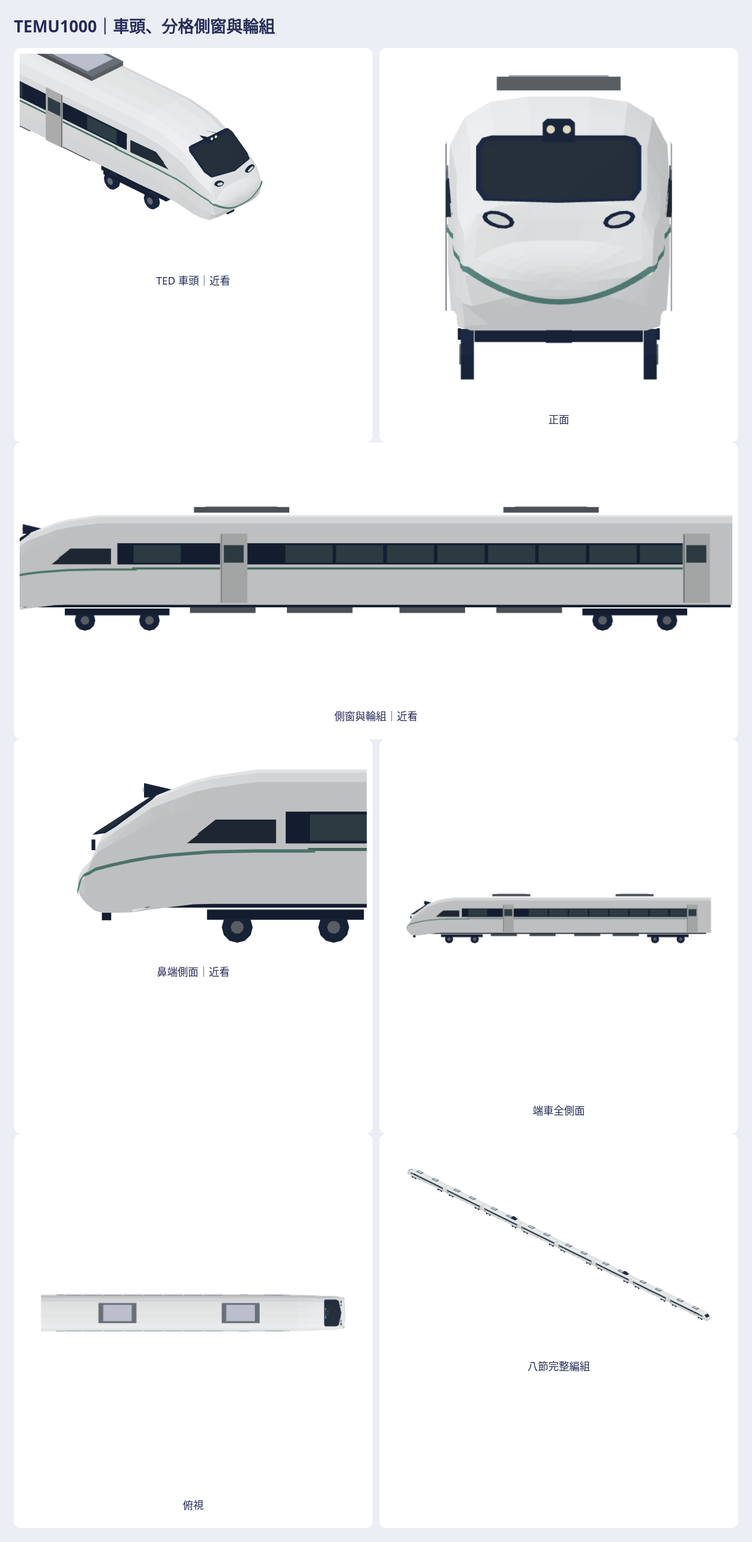
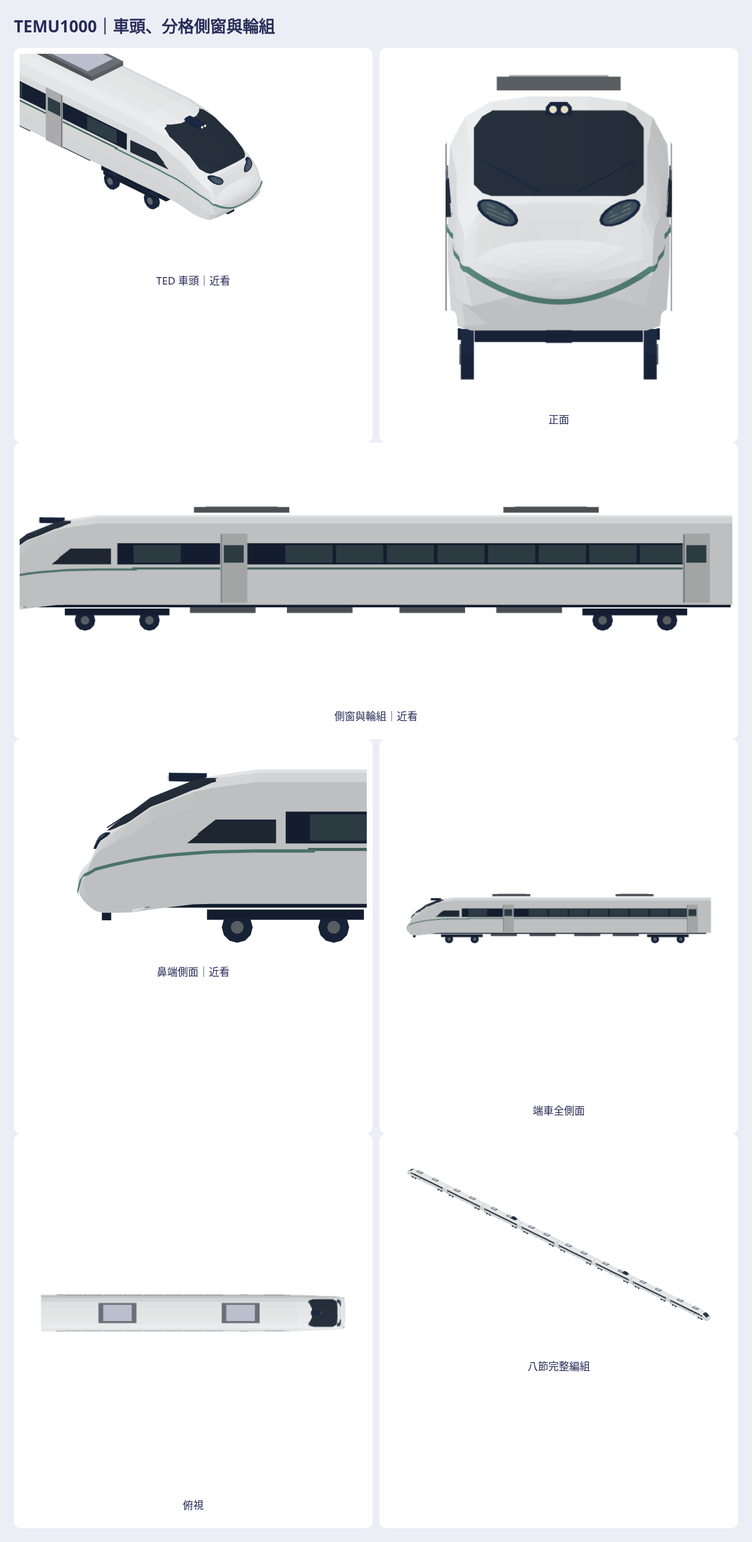
Polish TEMU1000 cab glazing and lamps from front references
Agent: Codex

diff --git a/Sources/GamePresentation/Map3DTEMU1000.swift b/Sources/GamePresentation/Map3DTEMU1000.swift
@@ -312,43 +312,124 @@ extension StationKitBuilder {
                 let cabPane = cab.map { Map3DPoint($0.x,$0.y-0.025,$0.z+side*0.012) }
                 face(cabPane,inside:centre,color:glass)
             }
-            // The cab screen follows the rake and bends across the width.
-            // Chamfered corners and a short closed rim keep the glazing part
-            // of the nose instead of a flat panel hovering over the shell.
-            func screenPoint(_ y: Float, _ z: Float, offset: Float = 0) -> Map3DPoint {
-                let t = (3.20-y)/0.93
-                let transverse = 0.24 * max(0,1-(z/1.15)*(z/1.15))
-                return Map3DPoint(nose*(10.94+1.25*t+transverse+offset),y,z)
+            // Project the screen and lamps onto the actual shell facets.
+            // Their former flat X planes made them hover over the cab rake.
+            func cabSurface(_ y: Float, _ z: Float) -> Float {
+                var forward = -Float.infinity
+                func consider(_ a: Map3DPoint, _ b: Map3DPoint, _ c: Map3DPoint) {
+                    let by=b.y-a.y,bz=b.z-a.z,cy=c.y-a.y,cz=c.z-a.z
+                    let det=by*cz-bz*cy
+                    if abs(det)<0.00001 { return }
+                    let py=y-a.y,pz=z-a.z
+                    let u=(py*cz-pz*cy)/det,v=(by*pz-bz*py)/det
+                    if u >= -0.0001 && v >= -0.0001 && u+v <= 1.0001 {
+                        forward=max(forward,nose*(a.x*(1-u-v)+b.x*u+c.x*v))
+                    }
+                }
+                for k in 0..<(rings.count-1) {
+                    for i in section.indices {
+                        let j=(i+1)%section.count
+                        if i < 7 {
+                            consider(rings[k][i],rings[k][j],rings[k+1][i])
+                            consider(rings[k][j],rings[k+1][j],rings[k+1][i])
+                        } else {
+                            consider(rings[k][i],rings[k][j],rings[k+1][j])
+                            consider(rings[k][i],rings[k+1][j],rings[k+1][i])
+                        }
+                    }
+                }
+                precondition(forward.isFinite,"TEMU1000 cab fitting missed the shell at \(y), \(z)")
+                return forward
             }
-            let outline: [(Float,Float)] = [(3.16,-1.00),(3.19,-0.88),(3.19,0.88),
-                                            (3.16,1.00),(3.05,1.08),(2.48,1.08),
-                                            (2.34,0.98),(2.31,0),(2.34,-0.98),
-                                            (2.48,-1.08),(3.05,-1.08)]
-            let frame = outline.map { screenPoint($0.0,$0.1,offset:0.025) }
-            let backing = outline.map { screenPoint($0.0,$0.1,offset:-0.035) }
-            face(frame,inside:centre,color:ink)
-            face(backing,inside:centre,color:ink)
-            for i in outline.indices {
-                let j = (i+1)%outline.count
-                face([frame[i],frame[j],backing[j],backing[i]],inside:centre,color:ink)
+            func cabPoint(_ y: Float, _ z: Float, offset: Float = 0) -> Map3DPoint {
+                Map3DPoint(nose*(cabSurface(y,z)+offset),y,z)
             }
-            let pane = outline.map { y,z in screenPoint(2.74+(y-2.74)*0.91,z*0.94,offset:0.030) }
-            face(pane,inside:centre,color:glass)
-            // The twin upper marker lamps share one roof-backed, closed pod.
-            // Its rear edge intersects the solid roof, while its lower front
-            // edge overlaps the screen rim rather than hovering above it.
-            let lampRear = [Map3DPoint(nose*10.70,3.12,-0.21),
-                            Map3DPoint(nose*10.70,3.23,-0.21),
-                            Map3DPoint(nose*10.70,3.27,-0.15),
-                            Map3DPoint(nose*10.70,3.27,0.15),
-                            Map3DPoint(nose*10.70,3.23,0.21),
-                            Map3DPoint(nose*10.70,3.12,0.21)]
-            let lampFront = [Map3DPoint(nose*11.30,3.10,-0.21),
-                             Map3DPoint(nose*11.30,3.36,-0.21),
-                             Map3DPoint(nose*11.30,3.41,-0.15),
-                             Map3DPoint(nose*11.30,3.41,0.15),
-                             Map3DPoint(nose*11.30,3.36,0.21),
-                             Map3DPoint(nose*11.30,3.10,0.21)]
+            // The reference screen is taller and reaches much closer to the
+            // roof. Rounded bands keep its corners narrow without a thick rim.
+            let screenBands: [(height:Float,halfWidth:Float)] = [
+                (2.40,0.88),(2.44,1.00),(2.55,1.11),
+                (3.29,1.11),(3.44,1.00),(3.52,0.86)
+            ]
+            let screenOutline = screenBands.map { ($0.height,-$0.halfWidth) }
+                              + screenBands.reversed().map { ($0.height,$0.halfWidth) }
+            func clipScreen(_ triangle: [Map3DPoint]) -> [Map3DPoint] {
+                var polygon=triangle
+                for edge in screenOutline.indices {
+                    let a=screenOutline[edge],b=screenOutline[(edge+1)%screenOutline.count]
+                    func signed(_ p: Map3DPoint) -> Float {
+                        (b.0-a.0)*(p.z-a.1)-(b.1-a.1)*(p.y-a.0)
+                    }
+                    var next: [Map3DPoint]=[]
+                    if polygon.isEmpty { return [] }
+                    for i in polygon.indices {
+                        let p=polygon[i],q=polygon[(i+1)%polygon.count]
+                        let dp=signed(p),dq=signed(q)
+                        if dp >= -0.00001 { next.append(p) }
+                        if (dp < -0.00001 && dq > 0.00001) ||
+                           (dp > 0.00001 && dq < -0.00001) {
+                            let t=dp/(dp-dq)
+                            next.append(p+(q-p)*t)
+                        }
+                    }
+                    polygon=next
+                }
+                // Clipping across a shared shell edge can emit the same
+                // vertex twice. Remove it before native facet triangulation.
+                var clean: [Map3DPoint]=[]
+                for p in polygon {
+                    if let q=clean.last,
+                       abs(p.x-q.x)+abs(p.y-q.y)+abs(p.z-q.z)<0.0001 { continue }
+                    clean.append(p)
+                }
+                if clean.count>1 {
+                    let p=clean[0],q=clean[clean.count-1]
+                    if abs(p.x-q.x)+abs(p.y-q.y)+abs(p.z-q.z)<0.0001 { clean.removeLast() }
+                }
+                return clean.count>=3 ? clean : []
+            }
+            // Clip each actual shell triangle to the rounded screen outline.
+            // This keeps glazing flush on the nose rake, without white gaps
+            // from a second grid spanning across the original cab facets.
+            for k in 0..<(rings.count-1) where nose*rings[k][0].x > 8.8 && nose*rings[k+1][0].x > 8.8 {
+                for i in section.indices {
+                    let j=(i+1)%section.count
+                    let a=rings[k][i],b=rings[k][j],c=rings[k+1][j],d=rings[k+1][i]
+                    let triangles = i < 7 ? [[a,b,d],[b,c,d]] : [[a,b,c],[a,c,d]]
+                    for triangle in triangles {
+                        let cut=clipScreen(triangle)
+                        if !cut.isEmpty {
+                            face(cut.map { Map3DPoint($0.x+nose*0.014,$0.y,$0.z) },
+                                 inside:centre,color:glass)
+                        }
+                    }
+                }
+            }
+            if !far {
+                // The supplied cab photos show two slim blades rising from
+                // the lower glass toward the outer corners.
+                for side: Float in [-1,1] {
+                    let pivot=cabPoint(2.46,side*0.25,offset:0.081)
+                    let joint=cabPoint(2.73,side*0.75,offset:0.081)
+                    let tip=cabPoint(2.86,side*0.99,offset:0.081)
+                    civicTube(pivot,joint,radius:0.012,color:ink,sides:6)
+                    civicTube(joint,tip,radius:0.010,color:ink,sides:6)
+                }
+            }
+            // Real front views resolve two lamps inside one central housing;
+            // the glare in the drawing blends them together. Its rear half
+            // is buried in the roof and the lower front touches the screen.
+            let lampRear = [Map3DPoint(nose*9.96,3.43,-0.17),
+                            Map3DPoint(nose*9.96,3.56,-0.17),
+                            Map3DPoint(nose*9.96,3.62,-0.11),
+                            Map3DPoint(nose*9.96,3.62,0.11),
+                            Map3DPoint(nose*9.96,3.56,0.17),
+                            Map3DPoint(nose*9.96,3.43,0.17)]
+            let lampFront = [Map3DPoint(nose*10.77,3.45,-0.17),
+                             Map3DPoint(nose*10.77,3.56,-0.17),
+                             Map3DPoint(nose*10.77,3.63,-0.11),
+                             Map3DPoint(nose*10.77,3.63,0.11),
+                             Map3DPoint(nose*10.77,3.56,0.17),
+                             Map3DPoint(nose*10.77,3.45,0.17)]
             face(lampRear,inside:centre,color:ink)
             face(lampFront,inside:centre,color:ink)
             for i in lampFront.indices {
@@ -356,30 +437,50 @@ extension StationKitBuilder {
                 face([lampRear[i],lampRear[j],lampFront[j],lampFront[i]],inside:centre,color:ink)
             }
             for side: Float in [-1,1] {
-                civicTube(Map3DPoint(nose*11.305,3.27,side*0.105),
-                          Map3DPoint(nose*11.33,3.27,side*0.105),
-                          radius:0.055,color:Map3DStreetModel.headlamp,sides:far ? 6 : 12)
+                let first=mesh.vertices.count
+                civicTube(Map3DPoint(nose*10.775,3.53,side*0.075),
+                          Map3DPoint(nose*10.80,3.53,side*0.075),
+                          radius:0.050,color:Map3DStreetModel.headlamp,sides:far ? 8 : 12)
+                mesh.makeGlowing(from:first)
             }
-            // Oval lamp pods have a shallow closed backing sunk into the
-            // white nose. Their lenses sit above the wraparound stripe.
+            // The photos show tilted smoked housings with shallow horizontal
+            // louvers; the frontal drawing's pale spots are lamp glare.
             for side: Float in [-1,1] {
-                let around = far ? 6 : 12
-                func oval(_ x: Float, _ yr: Float, _ zr: Float) -> [Map3DPoint] {
+                let around = far ? 8 : 16
+                func oval(_ yr: Float, _ zr: Float, _ offset: Float) -> [Map3DPoint] {
                     (0..<around).map { i in
-                        let a = 2 * Float.pi * Float(i) / Float(around)
-                        return Map3DPoint(x, 2.09 + yr*sinf(a)
-                                               + side*0.04*cosf(a), side*0.79 + zr*cosf(a))
+                        let a=2*Float.pi*Float(i)/Float(around)
+                        let y=2.18+yr*sinf(a)+side*0.10*cosf(a)
+                        let z=side*0.80+zr*cosf(a)
+                        return cabPoint(y,z,offset:offset)
                     }
                 }
-                let back = oval(nose*12.34,0.11,0.21)
-                let rim = oval(nose*12.42,0.11,0.21)
-                face(back,inside:centre,color:ink)
-                face(rim,inside:centre,color:ink)
+                let back = oval(0.15,0.27,-0.014)
+                let rim = oval(0.15,0.27,0.060)
+                let middle=cabPoint(2.18,side*0.80,offset:0.060)
+                for i in 0..<around {
+                    face([middle,rim[i],rim[(i+1)%around]],inside:centre,color:ink)
+                }
                 for i in 0..<around {
                     let j = (i+1)%around
                     face([back[i],back[j],rim[j],rim[i]],inside:centre,color:ink)
                 }
-                face(oval(nose*12.43,0.065,0.15),inside:centre,color:Map3DPalette.tileWhite)
+                let lens=oval(0.115,0.225,0.068)
+                let lensMiddle=cabPoint(2.18,side*0.80,offset:0.068)
+                for i in 0..<around {
+                    face([lensMiddle,lens[i],lens[(i+1)%around]],
+                         inside:centre,color:Map3DTEMU1000.passengerGlass)
+                }
+                for height: Float in [-0.055,0,0.055] {
+                    func slat(_ across: Float, _ high: Float) -> Map3DPoint {
+                        let z=side*0.80+across
+                        return cabPoint(2.18+height+side*0.10*across/0.225+high,
+                                        z,offset:0.081)
+                    }
+                    face([slat(-0.14,-0.009),slat(0.14,-0.009),
+                          slat(0.14,0.009),slat(-0.14,0.009)],
+                         inside:centre,color:metal)
+                }
             }
             box(nose*12.10,0.48,0,0.20,0.34,0.17,ink)
         } else {

diff --git a/Tests/GamePresentationTests/Map3DTEMU1000Tests.swift b/Tests/GamePresentationTests/Map3DTEMU1000Tests.swift
@@ -32,14 +32,16 @@ final class Map3DTEMU1000Tests: XCTestCase {
 
     func testRevisedCabHasBroadScreenAndRoundedLowNose() {
         let head = Map3DTEMU1000.model(.leading)
-        let screen = head.vertices.filter { $0.color == Map3DTEMU1000.glass && $0.x > 10.8 && $0.z > 2.2 }
+        let screen = head.vertices.filter { $0.color == Map3DTEMU1000.glass && $0.x > 10.2 && $0.z > 2.2 }
         XCTAssertFalse(screen.isEmpty)
         XCTAssertGreaterThan((screen.map(\.y).max() ?? 0) - (screen.map(\.y).min() ?? 0), 2.0,
                              "front windscreen must span the broad shoulders")
-        XCTAssertGreaterThan((screen.map(\.z).max() ?? 0) - (screen.map(\.z).min() ?? 0), 0.75,
+        XCTAssertGreaterThan((screen.map(\.z).max() ?? 0) - (screen.map(\.z).min() ?? 0), 1.05,
                              "front windscreen must extend down the cab")
-        XCTAssertLessThan(screen.map(\.z).min() ?? 10, 2.4,
-                          "the dark screen must reach the lowered nose")
+        XCTAssertGreaterThan(screen.map(\.z).max() ?? 0, 3.3,
+                             "front windscreen must reach close to the roof")
+        XCTAssertLessThan(screen.map(\.z).min() ?? 10, 2.43,
+                          "the dark screen must reach the cab's lower corners")
         if let top = screen.max(by: { $0.z < $1.z }),
            let bottom = screen.min(by: { $0.z < $1.z }) {
             let rake = (top.x-bottom.x)/(top.z-bottom.z)
@@ -73,21 +75,72 @@ final class Map3DTEMU1000Tests: XCTestCase {
         let head = Map3DTEMU1000.model(.leading)
         let glass = Map3DTEMU1000.glass
         XCTAssertFalse(middle.vertices.contains { $0.color == glass && abs($0.x) > 10.8 && $0.z > 3.1 })
-        XCTAssertTrue(head.vertices.contains { $0.color == glass && $0.x > 10.8 && $0.z > 3.1 })
+        XCTAssertTrue(head.vertices.contains { $0.color == glass && $0.x > 10.2 && $0.z > 3.1 })
     }
 
-    func testCabKeepsTwinUpperLampsAndSymmetricNosePaint() {
+    func testFrontGlazingStaysAboveActualCabFacets() {
+        for unit in [Map3DTEMU1000.Unit.leading, .trailing] {
+            let nose: Float = unit == .leading ? 1 : -1
+            let vertices = Map3DTEMU1000.model(unit).vertices
+            let triangles = stride(from: 0, to: vertices.count, by: 3).map {
+                Array(vertices[$0..<($0+3)])
+            }
+            let shell = triangles.filter { tri in
+                tri.allSatisfy { $0.color == Map3DTEMU1000.shell && $0.x*nose > 8.8 }
+            }
+            let glass = triangles.filter { tri in
+                tri.allSatisfy { $0.color == Map3DTEMU1000.glass } &&
+                tri.map(\.x).reduce(0,+)*nose/3 > 8.8 &&
+                tri.map(\.z).reduce(0,+)/3 > 2.35 &&
+                tri.allSatisfy { abs($0.y) < 1.2 }
+            }
+            XCTAssertGreaterThan(glass.count, 30)
+            for tri in glass {
+                let y=tri.map(\.y).reduce(0,+)/3
+                let z=tri.map(\.z).reduce(0,+)/3
+                let front=tri.map(\.x).reduce(0,+)*nose/3
+                var outer = -Float.infinity
+                for face in shell {
+                    let a=face[0],b=face[1],c=face[2]
+                    let by=b.y-a.y,bz=b.z-a.z,cy=c.y-a.y,cz=c.z-a.z
+                    let det=by*cz-bz*cy
+                    if abs(det)<0.00001 { continue }
+                    let py=y-a.y,pz=z-a.z
+                    let u=(py*cz-pz*cy)/det,v=(by*pz-bz*py)/det
+                    if u >= -0.0001 && v >= -0.0001 && u+v <= 1.0001 {
+                        outer=max(outer,(a.x*(1-u-v)+b.x*u+c.x*v)*nose)
+                    }
+                }
+                XCTAssertTrue(outer.isFinite)
+                if outer.isFinite {
+                    XCTAssertGreaterThan(front-outer,0.005,
+                                         "the windscreen must not disappear behind a cab facet")
+                    XCTAssertLessThan(front-outer,0.035,
+                                      "the windscreen must not float above its shell support")
+                }
+            }
+        }
+    }
+
+    func testCabLampsHaveVisibleCentralAndShoulderLensesAndSymmetricNosePaint() {
         for unit in [Map3DTEMU1000.Unit.leading, .trailing] {
             let model = Map3DTEMU1000.model(unit)
             let lamps = model.vertices.filter {
                 $0.color == Map3DStreetModel.headlamp && $0.z > 3.15 && abs($0.y) < 0.35
             }
-            XCTAssertGreaterThan(lamps.count, 50,"both upper lenses must be part of the native cab")
-            XCTAssertTrue(lamps.contains { $0.y < -0.08 })
-            XCTAssertTrue(lamps.contains { $0.y > 0.08 })
-            XCTAssertLessThan(lamps.map { abs($0.y) }.max() ?? 1,0.18,
-                              "the central lamp must stay narrow relative to the windscreen")
+            XCTAssertGreaterThan(lamps.count, 75,"both upper lenses must be part of the native cab")
+            XCTAssertTrue(lamps.contains { $0.y < -0.09 })
+            XCTAssertTrue(lamps.contains { $0.y > 0.09 })
+            XCTAssertLessThan(lamps.map { abs($0.y) }.max() ?? 1,0.13,
+                              "the twin lamp housing must stay narrow relative to the windscreen")
             let nose: Float = unit == .leading ? 1 : -1
+            let shoulders = model.vertices.filter {
+                $0.color == Map3DTEMU1000.passengerGlass && $0.x*nose > 11.4 &&
+                $0.z > 2.0 && $0.z < 2.4 && abs($0.y) > 0.5
+            }
+            XCTAssertGreaterThan(shoulders.count, 60,"both shoulder pods need smoked lenses")
+            XCTAssertTrue(shoulders.contains { $0.y < -0.75 })
+            XCTAssertTrue(shoulders.contains { $0.y > 0.75 })
             let paint = model.vertices.filter {
                 $0.color == Map3DTEMU1000.band && $0.x*nose > 12.2 && abs($0.y) < 1.30
             }

diff --git a/tools/temu1000/bundle.py b/tools/temu1000/bundle.py
@@ -19,7 +19,7 @@ record = {
     'recipe': 'Sources/GamePresentation/Map3DTEMU1000.swift',
     'recipe_sha256': sha(source / 'Sources/GamePresentation/Map3DTEMU1000.swift'),
     'rebuild': 'tools/temu1000/README.md',
-    'supplied_reference': 'five initial inline images, later front/side detail crops and a TED/TEM/TEP side screenshot; visually inspected; not stored as local files',
+    'supplied_reference': 'five initial inline images, later front/side detail crops and side screenshot, plus eight front/oblique/photo/drawing/marked-preview images on 2026-10-26; visually inspected; not stored as local files',
     'other_source': 'project Map3DPalette / Map3DTrainStyle.glass / project display scale',
     'private_reference_use': 'existing commuter cab used for style comparison; no mesh/image/texture copied',
 }

diff --git a/docs/art/temu1000-2026-10-25/PRODUCTION_HANDOFF.md b/docs/art/temu1000-2026-10-25/PRODUCTION_HANDOFF.md
@@ -1,26 +1,26 @@
 # TEMU1000 製作交接與可重用經驗
 
-此頁是目前版本的接手入口。逐輪的造型判讀保留在 [README](README.md)；其中「本輪前後對照」是當時的紀錄，**現行** `previews/before-after.png` 比較的是公開 producer `c39d546f` 與最新原生端車。任一新修訂都要先保存真正前版，再重做同相機、同公尺尺度的比較。
+此頁是目前版本的接手入口。逐輪的造型判讀保留在 [README](README.md)；其中歷史章節的「本輪前後對照」是當時的紀錄，**現行** `previews/before-after.png` 比較的是已合併公開 producer `7efa16f6` 與 2026-10-26 車頭小修版原生端車。任一新修訂都要先保存真正前版，再重做同相機、同公尺尺度的比較。
 
 ## 目前交付與狀態
 
-- 公開 [issue #1228](https://github.com/a91453/railway-game-ios/issues/1228)／[draft PR #1230](https://github.com/a91453/railway-game-ios/pull/1230)：`Sources/GamePresentation/Map3DTEMU1000.swift` 是唯一車形配方；`Map3DModelPack` 註冊四種車廂，`Map3DTrainSets.temu1000()` 將單元用於 `taroko` 的營運 3D 顯示。公開 PR 合併前遊戲不會使用此新造型。
-- 私有 [draft PR #78](https://github.com/a91453/railway-reference-private/pull/78)：`Railway/game-art-previews/docs/art/temu1000-2026-10-25/` 有最終 M3DM、GLB、每件七向 PNG、四單元／八節預覽、白模、剪影、同尺度風格比較、真正前後圖、viewer、manifest、來源紀錄、SHA 與完整 ZIP。原始參考圖沒有本機檔案或 SHA，沒有放進公開庫。
-- 模型是**靜態**遊戲素材，沒有動畫。GameCore、存檔、golden、replay 和玩法沒有為此修改。兩張 PR 仍是 draft；作者尚未認可造型。最新 CI 應以 PR 當下的 head 與 checks 為準，不沿用本頁的快照。
+- 初版公開 [PR #1230](https://github.com/a91453/railway-game-ios/pull/1230) 與私有 [PR #78](https://github.com/a91453/railway-reference-private/pull/78) 已合併；本輪接續 [issue #1299](https://github.com/a91453/railway-game-ios/issues/1299)。`Sources/GamePresentation/Map3DTEMU1000.swift` 是唯一車形配方；`Map3DTrainSets.temu1000()` 已在 `main` 把四單元用於 `taroko` 營運 3D 顯示。本輪新造型要待公開修訂 PR 合併才會取代已合併版。
+- 私有 `Railway/game-art-previews/docs/art/temu1000-2026-10-25/` 有本輪 M3DM、GLB、每件七向 PNG、四單元／八節預覽、白模、剪影、同尺度風格比較、真正前後圖、viewer、manifest、來源紀錄、SHA 與完整 ZIP。`history/7efa16f6/` 保存真前版。原始參考圖沒有本機檔案或 SHA，沒有放進公開庫。
+- 模型是**靜態**遊戲素材，沒有動畫。GameCore、存檔、golden、replay 和玩法沒有為此修改。新 PR 的最新 CI 應以 PR head 與 checks 為準，不沿用本頁的快照；使用者尚未確認這輪外觀。
 
 ## 最終外觀判讀
 
 | 項目 | 已見於最終原生渲染 | 仍需留意 |
 |---|---|---|
-| 車首 | 收圓而向前鼓出的七段細分鼻端、下移的深色風擋、連續霧白殼頂與置中的白色下臉、縮窄但有支承的中央雙燈與環鼻細腰線 | 近景鼻罩仍有細分段明暗，裙板與燈座仍是低多邊形簡化；灰色只用於屋頂實體設備 |
+| 車首 | 收圓而向前鼓出的七段細分鼻端、較前版上移且依車殼三角面裁切的深色風擋、霧白殼頂、屋頂支承雙燈、斜深色側燈與雙雨刷 | 正面下鼻仍比新照片更方、綠弧中心偏低、側斜風擋延伸較長；這些主曲面差距沒有靠局部燈窗修飾掩蓋 |
 | 側身 | 深色窗帶內有獨立霧藍灰客窗、細柱與門窗；輪盤較舊版小 | 另一側真實門窗位置、窗內構造與車底設備資料不足 |
 | 編組 | TED 端車兩節、TEM 中車四節、TEP 集電設備車兩節；中車沒有駕駛窗或頭燈 | 單元功能順序及隱藏設備是展示假設，並非工程確認 |
 
-檢視入口：私包 `previews/overview.png`、`passenger-detail-left.png`、`after-front.png`、`cab-detail-left.png`、`before-after.png`、`units.png`、`directions.png`；每件完整七向在 `views/`。前一輪縮小輪盤半徑 0.39→0.33 m 並分格側窗；本輪將殼頂改白、中央燈座收窄至 0.42 m、鼻端大扇面改為七段淺曲面。輪徑及燈座尺寸是遊戲比例推估，不是實車尺寸。
+檢視入口：私包 `previews/overview.png`、`passenger-detail-left.png`、`after-front.png`、`cab-detail-left.png`、`before-after.png`、`units.png`、`directions.png`；每件完整七向在 `views/`。先前縮小輪盤半徑 0.39→0.33 m 並分格側窗，殼頂改白、中央燈座收窄至 0.42 m、鼻端大扇面改七段淺曲面；本輪修風擋貼面、雙燈可見性、側燈與雨刷。輪徑及燈座尺寸是遊戲比例推估，不是實車尺寸。
 
 ## 如何重建與核對
 
-1. 先讀本頁、[製作紀錄](README.md)、`tools/temu1000/README.md`、私包 `README.md`、`manifest.json` 和 `source-record.json`。原生座標是公尺、+X 車首、+Y 左、+Z 上，軌面 Z=0。四角色次序及所有中心平移在 manifest；目前節距 23.9 m 是比例推估。私包的 `geometry-scope.json` 對照本輪真前版與終版，核對輪組及 TEP 高位集電弓頂點保持不變；兩版輪盤都已是縮小後比例。
+1. 先讀本頁、[製作紀錄](README.md)、`tools/temu1000/README.md`、私包 `README.md`、`manifest.json` 和 `source-record.json`。原生座標是公尺、+X 車首、+Y 左、+Z 上，軌面 Z=0。四角色次序及所有中心平移在 manifest；目前節距 23.9 m 是比例推估。私包的 `history/7efa16f6/` 是本輪真前版，`geometry-scope.json` 核對輪組與非端車原生幾何保持不變；兩版輪盤都已是縮小後比例。
 2. 只改獨立配方 `Map3DTEMU1000.swift`，再用 Swift 6.4、warnings-as-errors 執行 `tools/temu1000/export.sh OUT`。執行 `node tools/temu1000/render.mjs OUT`、`node tools/temu1000/clay.mjs OUT`；任何模型修改後都要重新匯出最終視圖，不要沿用舊 PNG。
 3. 目視原生模型的正、側、俯、斜及白模／剪影。先判整體長寬、頭尾曲面，再判輪組、門窗、設備；若改了造型，將前版原生模型保留於私庫，以 `node tools/temu1000/feedback-compare.mjs OUT PRIOR` 重做同相機同公尺尺度的前後圖。用「已符合／仍不符合／資料不足」記錄結果，不以測試通過代替外觀驗收。
 4. 執行 `node tools/temu1000/verify.mjs OUT`、`python3 tools/temu1000/verify-png.py OUT`、`node tools/temu1000/browser-check.mjs OUT`，並以 Blender 執行 `tools/temu1000/glb-audit.py`。原生讀回、三角數、法線、八節平移組裝、輪底、PNG 完整解碼／透明／不裁邊、viewer 旋轉／縮放／下載都須核對。相關 Swift 測試是 `Map3DTEMU1000Tests`、`Map3DModelTests`、`Map3DTrainSetTests`；最後一次模型修訂後本機共 27 項通過，CI 結果仍看新 head。

diff --git a/docs/HANDOFF.md b/docs/HANDOFF.md
@@ -1747,7 +1747,7 @@ PR #755–#784 那一輪（72.1 那一天）的審查：修了 6 項（路線卡
 
 **Codex 原生車輛製作流程文件化（使用者2026-10-25要求，接續#1200）**：使用者接受第十版後，要求詳細寫出讓不同AI可重複使用的流程。[完整手冊](art/native-vehicle-modeling/README.md)、[可貼製作指令](art/native-vehicle-modeling/PROMPT.md)、[獨立驗收表](art/native-vehicle-modeling/REVIEW_CHECKLIST.md)、[700T實例](art/native-vehicle-modeling/CASE_STUDY_700T.md)已整理；art-style與原素材／工具README加入口。涵蓋真參考判讀、資料缺口、比例／斷面／鼻肩曲面、貼合門窗、色帶面積與穩定切分、輪軌／編組、同相機真前後、匯出／producer／viewer／ZIP、外觀與技術／CI／真機分開記錄。700T數值僅個案，不能套成所有車的車體或預算。素材交付時靜態，後續#1217／決策408已由Claude接入；本輪只文件，不改模型／工具執行碼／遊戲映射，不動決策410的共用建模實作。新文件分支codex/native-vehicle-modeling-guide-2026-10-25從main6a6352b4開；文件鏈結／格式查核與文件PR的實際CI分別記錄，不重跑建模或新增真機驗證。
 
-TEMU1000 原生外形（Codex，issue #1228，公開 draft #1230／私庫 draft #78）：五張起始圖及後續正／側圖均已目視；**現行真前版** `c39d546f` 原生端車留私庫 history，現行同相機／公尺尺度前後圖以它比較。輪盤半徑 0.39→0.33 m、側窗分格、殼頂改白、中央雙燈座縮窄、前鼻細分曲面；灰色只留實體空調箱。**接手先讀** `docs/art/temu1000-2026-10-25/PRODUCTION_HANDOFF.md`，再讀該目錄 README、私包 manifest/source-record/verification；PR checks 看最新 head。此為靜態造型，公開 PR 合併後 `taroko` 3D 營運畫面才會使用；GameCore、存檔、fixtures 不變。真機 Metal／效能／動畫未驗，外觀尚未經作者認可。
+TEMU1000 原生外形（Codex，初版 issue #1228／公開 #1230／私庫 #78 已合併；本輪 issue #1299）：新附正面、側斜與實車照片均已目視；**本輪真前版** `7efa16f6` 原生端車留私庫 `history/7efa16f6/`，現行同相機／公尺尺度前後圖以它比較。本輪風擋上移並按原殼三角裁切，恢復實車照片可辨的屋頂雙燈，兩側燈改斜深色細紋，補細雨刷；輪盤、側窗、殼頂、車體及八節排列保留。**接手先讀** `docs/art/temu1000-2026-10-25/PRODUCTION_HANDOFF.md`，再讀 README、私包 manifest/source-record/verification；PR checks 看最新 head。此為已接入 `taroko` 營運 3D 顯示的**靜態**造型修訂，新版須公開修訂 PR 合併才生效；GameCore、存檔、fixtures 不變。正面下鼻仍偏方、綠弧中心偏低、側斜風擋偏長；真機 Metal／效能／動畫未驗，外觀尚未經作者認可。
 後續使用者指出「黑色跟圓弧要往下移」：Codex 在同分支下移端車風擋與鼻端斷面，讓正面腰線下垂且側線於鼻端漸降；真前版 `3f697206` 另留私庫 history，本版前後對照改用端車相機。外觀仍待作者評價；真機 Metal／效能／動畫仍未驗。
 再補的正面／側面裁圖顯示端面還是太平：Codex 在同分支縮短鼻端直面、加密並鼓起圓弧端面，玻璃與腰線跟著真曲面；真前版 `d793874b` 存私庫 history，另出車頭側／斜近景與同尺度對照。最新外觀與重建見上述 README；真機限制不變。
 再依使用者明列的輪盤過大、側窗不見及正面灰面偏心：Codex 將輪盤縮至展示半徑 0.33 m 並維持軌面接觸、客窗換成分格可辨玻璃、限制灰屋頂材質在車頭上方且鏡射兩側殼面。真前版 `cea94afc` 留私庫 history，新側窗輪組近景、同尺度前後與各項外觀／驗證仍見上述 README；工程輪徑與真機 Metal 未驗。

diff --git a/docs/art/temu1000-2026-10-25/README.md b/docs/art/temu1000-2026-10-25/README.md
@@ -73,3 +73,16 @@
 使用者要求三處一起調整。本輪真前版公開 producer `c39d546f` 的原生、GLB、manifest、來源及正／側／斜預覽已保留私包 `history/c39d546f/`；`previews/before-after.png` 由兩份真正原生端車以同相機和共同公尺範圍重畫。對照起始正面與側面附圖，車殼屋頂改成連續霧白，灰色只留在實體空調箱；這也消除正面上緣偏灰的不平衡感。中央雙燈座寬度由 0.60 m 收至 0.42 m，燈面半徑 0.073→0.055 m，屋頂後緣支承保留。鼻端由單一大三角扇面改成七段漸進淺曲面，腰帶跟實際新殼片重新取樣；頭尾端車一起修，中車不長出駕駛設備。
 
 最終原生配色、白模與剪影已親自查看正、側、俯、斜視。**已符合**：正面殼頂為白色、頂燈較接近參考比例、前鼻近景不再由幾塊大三角面主導，輪組／分格側窗／設備及八節排列穩定。**仍不符合**：前鼻仍可見細分段的低多邊形明暗，燈座、裙板與內裝仍為遊戲尺度簡化；不能宣稱作者已認可。**資料不足**：燈座與輪組實車尺寸、另一側真實配置及隱藏設備。技術驗證另見私包；Linux WebGL 不等於真機 Metal、效能或動畫驗證。
+
+## 2026-10-26 正面圖與實車照片再比對
+
+使用者另附八張正面／側斜照片、側視插畫及前版標記圖；本輪逐張實際目視。圖片只在對話內，沒有本機原檔或 SHA，未放進公開庫或送到外部生成服務。這些來源可判斷相對位置和輪廓，不能證明工程尺寸。開始時從最新 `main` 的真正原生模型另行匯出，與已合併的公開 producer `7efa16f6` 私包原生端車 SHA 相同；前版完整模型與來源存於私包 `history/7efa16f6/`。現行 `previews/before-after.png` 使用該真前版與本輪新原生模型的共同公尺相機，列出側、正、斜三視。
+
+| 正面與側斜觀察 | 本輪修正與結果 |
+|---|---|
+| 風擋原本偏低，擴大時曾被車殼遮成白色缺口 | 整體上移，保留寬而微圓角的玻璃；按原生鼻殼每片三角形裁切玻璃，再向外貼 0.014 m。新增測試從實際三角形重算玻璃與殼間距，能抓到埋入與浮空。 |
+| 插畫的頂燈有光暈，實車照片可辨同一燈座內兩燈 | 保持有屋頂支承的中央窄燈座，使用兩片可讀的暖白燈面；尾端同步修。 |
+| 兩側燈在實車照片中為斜置深色罩與橫向細紋 | 將原先看似空環／亮蛋的燈改為沿鼻面貼合的深色燈罩與細橫紋；與玻璃下緣保留白色間距。 |
+| 照片中有兩支雨刷；前版風擋是一整塊平色 | 加兩支細雨刷，貼在玻璃上方，遠景版省略。 |
+
+本輪原生正、側、俯、斜、白模和剪影已實際檢視。**已符合**：雙燈、斜深色側燈、雨刷與整體較高的風擋在模型正面可見；側窗、輪組、灰色實體空調箱及八節次序保持。**仍不符合**：正面下鼻輪廓比照片更方，綠弧在中心顯得偏低，側斜玻璃沿車殼斜面延伸得較長；這些屬主曲面差距，本次局部燈窗修訂沒有冒充已修好。**資料不足**：無正交工程圖、精確鼻端曲率、另一側及隱藏設備資料。使用者尚未確認這一版外觀。最新 CI 與真機狀態以新 PR 的實際結果為準；Linux WebGL／Blender 不等於 Metal、效能或動畫驗證。
